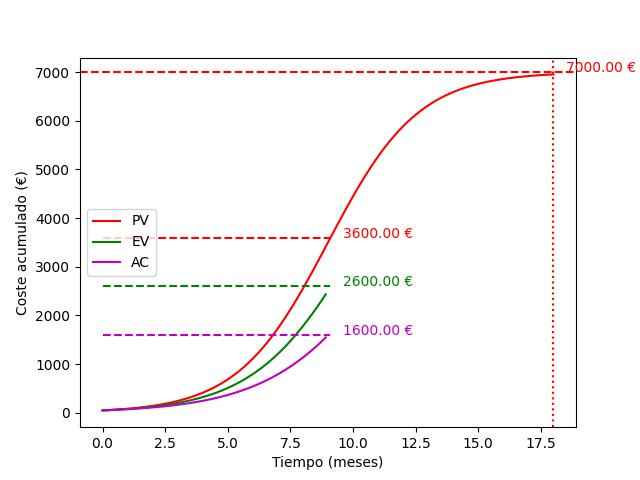
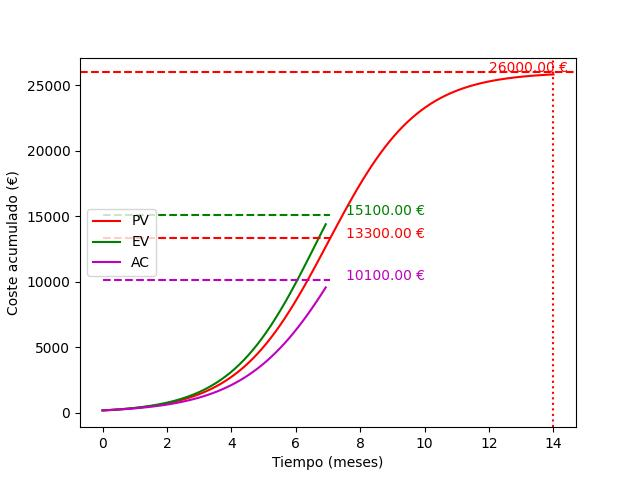
Pregunta Valor Ganado Versión 2
Se ha perfeccionado el código para una mejor visualización de los datos y añadido la codificación de la grafica creada para que al importarla en Moodle se pueda visualizar correctamente.

diff --git a/src/ValorGanado.py b/src/ValorGanado.py
@@ -2,6 +2,9 @@ from lxml import etree
 import matplotlib.pyplot as plt
 import numpy as np
 import random
+import base64
+from PIL import Image
+from io import BytesIO
 
 # Creación de pregunta 2 sobre el Valor Ganado
 # Autor: Álvaro Hoyuelos Martín
@@ -48,20 +51,35 @@ def crearGrafico():
     plt.text(valorTiempoMedio + 0.5, valorAC, f'{valorAC:.2f} €', color = 'm')
     plt.axhline(y = valorFinalPV, color = 'r', linestyle = '--')
     plt.axvline(x = tiempoTotal, color = 'r', linestyle = ':')
-    plt.text(tiempoTotal + 0.5, valorFinalPV, f'{valorFinalPV:.2f} €', color = 'r')  
+    plt.text(tiempoTotal - 2, valorFinalPV, f'{valorFinalPV:.2f} €', color = 'r')     
 
     # Añadir leyenda y título a la x e y de la gráfica y guardar la gráfica como una imagen
     plt.xlabel('Tiempo (meses)')
     plt.ylabel('Coste acumulado (€)')
     plt.legend()
     plt.savefig('ValorGanadoEjercicio.jpg')
+    grafica = plt.imread('ValorGanadoEjercicio.jpg')
     
     # Creación del fichero xml y calculo de los métodos
     estadoCosteF = estadoCoste(valorEV, valorAC)
     estadoPlazoF = estadoPlazo(valorEV, valorPV)    
     costeFinalF = costeFinal(valorEV, valorAC, valorFinalPV)    
     tiempoFinalF = tiempoFinal(valorEV, valorPV, tiempoTotal)   
-    EVM_xml(estadoCosteF, estadoPlazoF, costeFinalF, tiempoFinalF)
+    codificarGraficoValorF = codificarGraficoValor(grafica)
+    EVM_xml(estadoCosteF, estadoPlazoF, costeFinalF, tiempoFinalF, codificarGraficoValorF)
+
+def codificarGraficoValor(grafica):   
+    # Convertir la imagen de un arreglo de NumPy a un objeto de imagen de PIL
+    graficaPil = Image.fromarray(np.uint8(grafica))
+
+    # Guardar el gráfico en un objeto BytesIO
+    buffered = BytesIO()
+    graficaPil.save(buffered, format="JPEG")
+    
+    # Codificar la gráfica en base64 para conseguir la linea de texto
+    grafica64 = base64.b64encode(buffered.getvalue())
+    graficaCodificada = grafica64.decode("utf-8")
+    return graficaCodificada
 
 # Métodos para calcular las preguntas del cuestionario
 def estadoCoste(valorEV, valorAC):
@@ -88,9 +106,12 @@ def tiempoFinal(valorEV, valorPV, tiempoTotal):
     spi = valorEV / valorPV
     return round(tiempoTotal / spi, 2)
 
-def EVM_xml(estadoCoste, estadoPlazo, costeFinal, tiempoFinal):  
-    # Crear el elemento raíz 'question'
-    question = etree.Element('question')
+def EVM_xml(estadoCoste, estadoPlazo, costeFinal, tiempoFinal, codificarGraficoValor):  
+    # Crear el elemento raíz 'quiz'
+    quiz = etree.Element('quiz')
+    
+    # Crear el elemento 'question'
+    question = etree.SubElement(quiz, 'question')
     question.set('type', 'cloze')
 
     # Crear el elemento 'questiontext'   
@@ -126,16 +147,23 @@ def EVM_xml(estadoCoste, estadoPlazo, costeFinal, tiempoFinal):
     text = etree.SubElement(questiontext, 'text')
     text_content = f"""
         <p>Le presentan el informe de valor ganado de un proyecto en curso (ver figura).<br></p>
-        <p><img src="ValorGanadoEjercicio.jpg" alt="" width="574" height="372" role="presentation" style="vertical-align:text-bottom; margin: 0 .5em;" class="img-responsive"><br></p>
+        <p><img src="@@PLUGINFILE@@/ValorGanadoEjercicio.jpg" alt="" width="574" height="372" role="presentation" style="vertical-align:text-bottom; margin: 0 .5em;" class="img-responsive"><br></p>
         <p>En vista de los datos, ¿cómo va el proyecto en costes?</p>
-        <p>{{1:MULTICHOICE_V:{sobrecoste}%Con sobrecoste#~{acordado}%Con costes de acuerdo a lo planificado#~{ahorro}%Con ahorro en coste#}}</p>
+        <p>{{1:MULTICHOICE_V:%{sobrecoste}%Con sobrecoste#~%{acordado}%Con costes de acuerdo a lo planificado#~%{ahorro}%Con ahorro en coste#}}</p>
         <p>¿Y en tiempo?</p>
-        <p>{{1:MULTICHOICE_V:{adelanto}%En adelanto#~{planificado}%De acuerdo a lo planificado en plazo#~{retraso}%En retraso#}}</p>
-        <p>¿qué estimación de coste final para el proyecto haría? (en €)&nbsp;<{{1:NUMERICAL:%100%{costeFinal}:50#}}</p>
+        <p>{{1:MULTICHOICE_V:%{adelanto}%En adelanto#~%{planificado}%De acuerdo a lo planificado en plazo#~%{retraso}%En retraso#}}</p>
+        <p>¿qué estimación de coste final para el proyecto haría? (en €)&nbsp;{{1:NUMERICAL:%100%{costeFinal}:50#}}</p>
         <p>¿qué estimación de tiempo haría si utilizase el método del valor ganado? (en meses)&nbsp;{{1:NUMERICAL:%100%{tiempoFinal}:0.5#}}</p><br></p>
         """    
     text.text = etree.CDATA(text_content)
     
+    # Crear el elemento 'file' dentro de 'questiontext'
+    file = etree.SubElement(questiontext, 'file')
+    file.set('name', "ValorGanadoEjercicio.jpg")
+    file.set('path', "/")
+    file.set('encoding', "base64")
+    file.text = f"""{codificarGraficoValor}"""
+
     # Crear los elementos restantes
     generalfeedback = etree.SubElement(question, 'generalfeedback')
     generalfeedback.set('format', 'html')   
@@ -147,7 +175,7 @@ def EVM_xml(estadoCoste, estadoPlazo, costeFinal, tiempoFinal):
     idnumber = etree.SubElement(question, 'idnumber')
     
     # Convertir el árbol XML a una cadena y guardarla en el archivo 'ValorGanado.xml'
-    xml_str = etree.tostring(question, pretty_print=True, encoding='UTF-8', xml_declaration=True).decode('utf-8')  
+    xml_str = etree.tostring(quiz, pretty_print=True, encoding='UTF-8', xml_declaration=True).decode('utf-8')  
     with open('ValorGanado.xml', 'w', encoding='utf-8') as f:
         f.write(xml_str)
 
